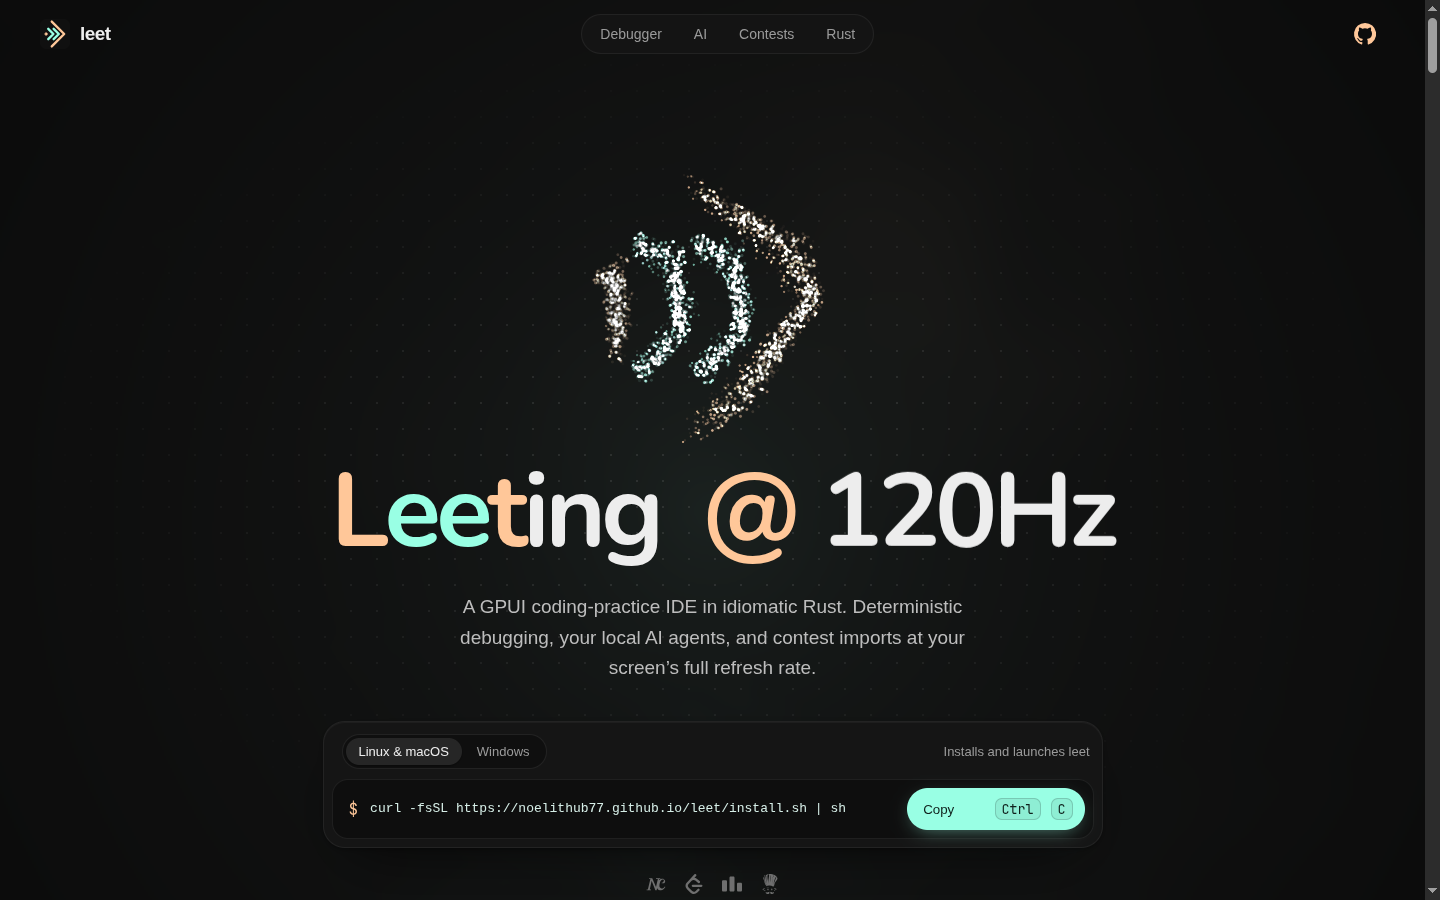
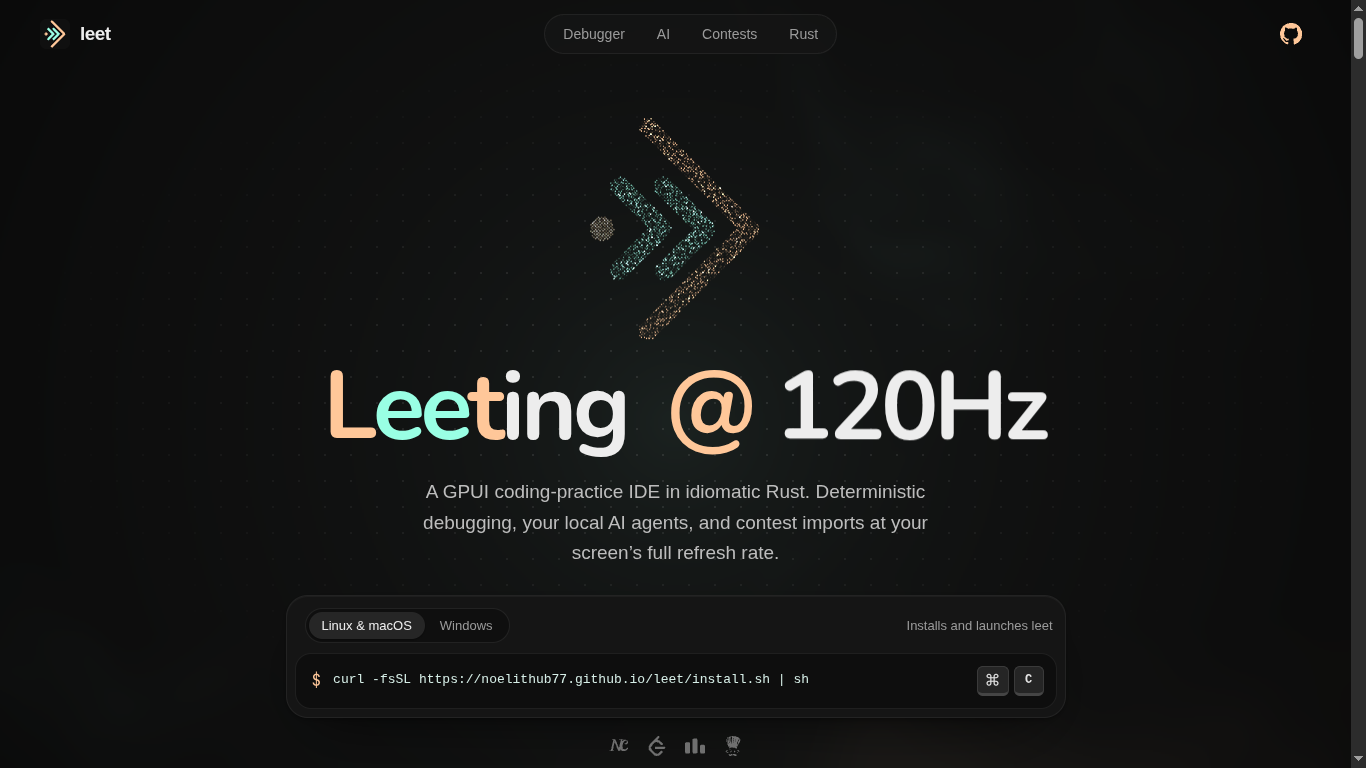
Synchronize hero motion and refine install controls
Pair the logo and Leeting title on one repeating timeline, with matching 1337 states and more space above the headline. Replace the copy pill with raised platform-specific keycaps and quiet the Windows download.

Verify repeated animation cycles, keyboard clipboard feedback, desktop and phone renders, site build, and serial workspace checks.

diff --git a/site/src/enhance.js b/site/src/enhance.js
@@ -9,6 +9,7 @@ import 'lenis/dist/lenis.css';
 import { mountDebugger } from './debugger.js';
 import { colors, pointsAttribute, strokeAt } from './logo.js';
 import { snapRefreshRate } from './refresh.js';
+import { createHeroCycle } from './hero-motion.js';
 
 gsap.registerPlugin(ScrollTrigger, SplitText, DrawSVGPlugin, ScrambleTextPlugin);
 
@@ -66,13 +67,14 @@ const marks = $$('[data-mark]').map(svg => {
   draw();
   const loop = gsap.timeline({ paused: true, repeat: -1, yoyo: true, repeatDelay: 1.5, delay: 1.2 }).to(strokes, { p: 1 - initial, ...morph });
   const mark = { svg, hold: false, visible: false, ghosted: false };
+  mark.setMorph = value => { strokes.forEach(stroke => { stroke.p = value; }); draw(); };
   mark.to = target => { loop.pause(); return gsap.to(strokes, { p: target, ...morph, overwrite: true }); };
   mark.resume = () => { if (!mark.hold && !mark.ghosted && mark.visible && !reduced) mark.to(initial).then(() => !mark.hold && loop.restart(true)); };
   // Particles take over the hero mark; the SVG keeps its layout and accessible name.
   mark.ghost = () => { mark.ghosted = true; loop.pause(); svg.classList.add('is-ghost'); };
   whileVisible(svg, visible => {
     mark.visible = visible;
-    if (visible && !mark.hold && !mark.ghosted && !reduced) loop.play();
+    if (visible && !svg.closest('.hero') && !mark.hold && !mark.ghosted && !reduced) loop.play();
     else loop.pause();
   });
   if (!svg.closest('.hero')) {
@@ -108,21 +110,8 @@ const particlesReady = !reduced && !saveData && marks[0] ? import('./particles.j
   marks[0].ghost();
   root.classList.remove('hero-pending');
   canvas.classList.add('is-live');
-  const { uMorph } = particles.uniforms;
-  const loop = gsap.timeline({ repeat: -1, paused: true })
-    .set(uMorph, { value: 1 })
-    .to(uMorph, { value: 0, duration: 1, ease: 'power2.inOut', delay: 1.5 })
-    .to(uMorph, { value: 1, duration: 1, ease: 'power2.inOut', delay: 1.5 })
-    .to({}, { duration: 1.5 });
-  particles.hold = on => {
-    loop.pause();
-    gsap.to(uMorph, { value: 1, duration: 1.1, ease: 'power2.inOut', overwrite: true, onComplete: () => !on && loop.restart(true) });
-  };
   const render = time => particles.render(time);
-  whileVisible(hero, visible => {
-    if (visible) { gsap.ticker.add(render); if (!root.classList.contains('eleet')) loop.play(); }
-    else { gsap.ticker.remove(render); loop.pause(); }
-  });
+  whileVisible(hero, visible => visible ? gsap.ticker.add(render) : gsap.ticker.remove(render));
   const x = gsap.quickTo(particles.pointer, 'x', { duration: 0.12, ease: 'power2.out' });
   const y = gsap.quickTo(particles.pointer, 'y', { duration: 0.12, ease: 'power2.out' });
   hero.addEventListener('pointermove', event => {
@@ -135,25 +124,32 @@ const particlesReady = !reduced && !saveData && marks[0] ? import('./particles.j
   return particles;
 }).catch(() => { root.classList.remove('hero-pending'); return null; }) : Promise.resolve(null);
 
-/* SplitText gives each stable-width spelling a staggered, rotating letter transition. */
-const heroWord = $('[data-hero-word]');
-if (heroWord && !reduced && !saveData) {
+/* One clock keeps the particle/SVG morph and letter flip paired, including after pauses. */
+const heroMotionReady = particlesReady.then(particles => {
+  const heroWord = $('[data-hero-word]');
+  if (!heroWord || reduced || saveData) return null;
   const leet = heroWord.querySelector('[data-spelling="leet"]');
   const digits = heroWord.querySelector('[data-spelling="1337"]');
   const letters = SplitText.create(leet, { type: 'chars', charsClass: 'spelling-char' });
   const numbers = SplitText.create(digits, { type: 'chars', charsClass: 'spelling-char' });
-  const from = { yPercent: 12, rotationX: -45, opacity: 0, filter: 'blur(2px)' };
-  gsap.set(numbers.chars, from);
-  gsap.set(digits, { opacity: 1, y: 0 });
-  const out = { yPercent: -12, rotationX: 45, opacity: 0, filter: 'blur(2px)', duration: 0.14, stagger: 0.008, ease: 'power2.in' };
-  const into = { yPercent: 0, rotationX: 0, opacity: 1, filter: 'blur(0px)', duration: 0.24, stagger: 0.01, ease: 'power3.out', immediateRender: false };
-  const spelling = gsap.timeline({ repeat: -1, paused: true })
-    .to(letters.chars, { ...out, delay: 2.8 })
-    .fromTo(numbers.chars, from, into, '<+0.06')
-    .to(numbers.chars, { ...out, delay: 2.4 })
-    .fromTo(letters.chars, from, into, '<+0.06');
-  whileVisible(hero, visible => visible ? spelling.play() : spelling.pause());
-}
+  const morph = particles?.uniforms.uMorph ?? { value: 1 };
+  const cycle = createHeroCycle(morph, letters.chars, numbers.chars,
+    particles ? undefined : () => marks[0].setMorph(morph.value));
+  gsap.set([leet, digits], { opacity: 1, y: 0 });
+  let visible = false;
+  const hold = on => {
+    cycle.pause();
+    if (on) cycle.totalTime(0);
+    else { cycle.totalTime(0); if (visible) cycle.play(); }
+  };
+  whileVisible(hero, on => {
+    visible = on;
+    if (on && !root.classList.contains('eleet')) cycle.play();
+    else cycle.pause();
+  });
+  if (root.classList.contains('eleet')) hold(true);
+  return { hold };
+});
 
 /* Scroll scenes, per viewport */
 const debuggerCard = $('[data-debugger]');
@@ -369,8 +365,8 @@ document.addEventListener('keydown', event => {
   if (typedKeys !== '1337') return;
   typedKeys = '';
   const on = root.classList.toggle('eleet');
-  for (const mark of marks) { mark.hold = on; on ? mark.to(1) : mark.resume(); }
-  void particlesReady.then(particles => particles?.hold(on));
+  for (const mark of marks.filter(mark => !mark.svg.closest('.hero'))) { mark.hold = on; on ? mark.to(1) : mark.resume(); }
+  void heroMotionReady.then(motion => motion?.hold(on));
   if (!reduced) {
     const glyphs = Array.from({ length: 28 }, (_, index) => {
       const glyph = Object.assign(document.createElement('span'), { className: 'glyph', textContent: '1337'[index % 4] });

diff --git a/site/index.html b/site/index.html
@@ -42,7 +42,7 @@
       h1{margin:26px 0 0;font-family:"Nunito","Liberation Sans",sans-serif;font-size:clamp(46px,9vw,112px);line-height:1.08;font-weight:700;letter-spacing:-.045em}
       .hz{color:var(--fg);display:inline-block;white-space:nowrap}
       .at-sign{color:var(--peach)}
-      .word-peach{color:var(--peach)}.word-mint{color:var(--mint)}
+      .hero-word [data-spelling=leet]{opacity:0}.word-peach{color:var(--peach)}.word-mint{color:var(--mint)}
       .lede{max-width:580px;margin:24px auto 0;color:#bdbdbd;font-size:clamp(16px,1.9vw,19px);line-height:1.6}
       .install{width:min(100%,780px);margin-top:38px;padding:8px;border:1px solid var(--line);border-radius:var(--radius);background:var(--card);box-shadow:var(--shadow);text-align:left}
       .install-head{display:flex;align-items:center;justify-content:space-between;gap:12px;padding:4px 4px 10px 10px}
@@ -54,13 +54,13 @@
       .command-row code{flex:1;min-width:0;font:13px/1.6 ui-monospace,"SF Mono","JetBrains Mono","Liberation Mono",Consolas,monospace;color:#d6eee7;white-space:nowrap;overflow-x:auto;scrollbar-width:none}
       .prompt{color:var(--peach);font-family:ui-monospace,monospace}
       .copy,.download{display:inline-flex;align-items:center;gap:10px;border:0;border-radius:999px;padding:10px 12px 10px 16px;background:var(--mint);color:var(--ink);font:700 14px/1 inherit;cursor:pointer;white-space:nowrap;box-shadow:0 6px 20px -8px #99ffe499}
-      .download{justify-content:space-between;width:100%;padding:16px 20px;border-radius:16px}
+      .download{justify-content:space-between;width:100%;padding:13px 16px;border-radius:16px;background:#0e0e0e;color:var(--fg);border:1px solid var(--line);box-shadow:none}.download span{color:var(--muted);font-size:13px}.copy{padding:4px;gap:5px;border-radius:10px;background:transparent;color:var(--fg);box-shadow:none}.copy-label{display:none}
       kbd{display:inline-grid;place-items:center;min-width:22px;height:22px;padding:0 6px;border-radius:7px;font:700 11px/1 inherit}
-      .copy kbd{background:#0f211c14;border:1px solid #0f211c2e}
+      .copy kbd{height:30px;min-width:30px;padding:0 9px;border-radius:6px;background:#252525;border:1px solid #3b3b3b;border-bottom:3px solid #454545;color:#e3e3e3;font:600 12px/1 ui-monospace,"SF Mono","Liberation Mono",monospace}.copy kbd[data-mod]{min-width:46px}.copy kbd.is-mac{min-width:30px;font:500 20px/1 "Liberation Sans",sans-serif}
       .marks{display:flex;gap:18px;justify-content:center;margin:26px 0 0;padding:0;list-style:none;color:#6f6f6f}
       .marks i{display:block;width:20px;height:20px;background:currentColor;mask:var(--icon) center/contain no-repeat;-webkit-mask:var(--icon) center/contain no-repeat}
       [hidden]{display:none!important}
-      @media (max-width:640px){.command-row{flex-direction:column;align-items:stretch;padding:12px}.command-row code{white-space:normal;overflow-wrap:anywhere}.copy{justify-content:center;padding:13px}.copy kbd,.install-head span,.command-row .prompt{display:none}}
+      @media (max-width:640px){.command-row{flex-direction:column;align-items:stretch;padding:12px}.command-row code{white-space:normal;overflow-wrap:anywhere}.copy{justify-content:center;align-self:center;padding:4px}.install-head span,.command-row .prompt{display:none}}
     </style>
     <script type="module" src="/src/main.js"></script>
   </head>
@@ -102,7 +102,7 @@
             <div class="command-row" data-panel="unix">
               <span class="prompt" aria-hidden="true">$</span>
               <code data-command>curl -fsSL https://noelithub77.github.io/leet/install.sh | sh</code>
-              <button class="copy" type="button" data-copy aria-keyshortcuts="Control+C Meta+C"><span class="copy-label" data-copy-label aria-live="polite">Copy</span><kbd data-mod>Ctrl</kbd><kbd>C</kbd></button>
+              <button class="copy" type="button" aria-label="Copy install command" data-copy aria-keyshortcuts="Control+C Meta+C"><span class="copy-label" data-copy-label aria-live="polite"></span><kbd data-mod>Ctrl</kbd><kbd>C</kbd></button>
             </div>
             <a class="download" data-panel="windows" hidden href="https://github.com/Noelithub77/leet/releases/latest/download/leet-windows-x86_64.exe">Download for Windows <span aria-hidden="true">.exe ↓</span></a>
           </div>
@@ -329,7 +329,7 @@
             <div class="command-row" data-panel="unix">
               <span class="prompt" aria-hidden="true">$</span>
               <code data-command>curl -fsSL https://noelithub77.github.io/leet/install.sh | sh</code>
-              <button class="copy" type="button" data-copy aria-keyshortcuts="Control+C Meta+C"><span class="copy-label" data-copy-label aria-live="polite">Copy</span><kbd data-mod>Ctrl</kbd><kbd>C</kbd></button>
+              <button class="copy" type="button" aria-label="Copy install command" data-copy aria-keyshortcuts="Control+C Meta+C"><span class="copy-label" data-copy-label aria-live="polite"></span><kbd data-mod>Ctrl</kbd><kbd>C</kbd></button>
             </div>
             <a class="download" data-panel="windows" hidden href="https://github.com/Noelithub77/leet/releases/latest/download/leet-windows-x86_64.exe">Download for Windows <span aria-hidden="true">.exe ↓</span></a>
           </div>

diff --git a/site/src/style.css b/site/src/style.css
@@ -27,11 +27,11 @@ h2, h3, .dbg-title, .cph-title { font-family: "Nunito", "Liberation Sans", sans-
 .bar-progress { position: absolute; left: 0; right: 0; bottom: -1px; height: 2px; background: linear-gradient(90deg, var(--peach), var(--mint)); transform: scaleX(0); transform-origin: 0 50%; opacity: .85; }
 
 /* Hero */
-.hero h1 { white-space: nowrap; font-size: clamp(46px, 8.2vw, 104px); }
+.hero h1 { margin-top: 46px; white-space: nowrap; font-size: clamp(46px, 8.2vw, 104px); }
 .hero-word { display: inline-grid; min-width: 3.35em; text-align: center; overflow: clip; padding-block: .08em; margin-block: -.08em; vertical-align: bottom; }
 .hero-word > span { grid-area: 1 / 1; perspective: 600px; }
 .spelling-char { transform-origin: 50% 50%; backface-visibility: hidden; }
-.hero-word [data-spelling="1337"] { opacity: 0; transform: translateY(85%); }
+.hero-word [data-spelling="leet"] { opacity: 0; }
 .hero .mark { position: relative; top: 30px; }
 .mark { transition: opacity .3s ease; }
 .mark.is-ghost { opacity: 0; }
@@ -50,7 +50,7 @@ h2, h3, .dbg-title, .cph-title { font-family: "Nunito", "Liberation Sans", sans-
 @media (min-width: 900px) and (max-height: 850px) {
   .hero { padding-top: 76px; padding-bottom: 90px; }
   .hero .mark { width: clamp(220px, 32vh, 290px); }
-  .hero h1 { font-size: clamp(64px, 7.5vw, 96px); margin-top: 14px; }
+  .hero h1 { font-size: clamp(64px, 7.5vw, 96px); margin-top: 34px; }
   .hero .lede { margin-top: 18px; }
   .hero .install { margin-top: 26px; }
   .hero .marks { margin-top: 18px; }
@@ -62,11 +62,14 @@ h2, h3, .dbg-title, .cph-title { font-family: "Nunito", "Liberation Sans", sans-
 .command-row { position: relative; transition: border-color .3s, box-shadow .4s var(--ease); }
 .command-row.is-copied { border-color: #99ffe455; box-shadow: 0 0 0 4px #99ffe412; }
 .copy, .download { position: relative; transition: transform .2s var(--ease), background .2s, box-shadow .3s; }
-.copy:hover, .download:hover { background: #b6fff0; box-shadow: 0 8px 26px -8px #99ffe4bb; }
+.copy:hover kbd { background: #303530; border-color: #58655e; color: var(--mint); }
+.download:hover { background: #99ffe409; border-color: #99ffe455; color: var(--mint); }
 .copy:active { transform: scale(.96); }
 .copy kbd { transition: transform .12s var(--ease), background .12s; }
-.copy kbd.is-pressed { transform: translateY(2px); background: #0f211c33; }
-.copy-label { display: inline-flex; align-items: center; gap: 6px; min-width: 4.6em; }
+.copy kbd.is-pressed, .copy:active kbd { transform: translateY(2px); border-bottom-width: 1px; background: #303530; }
+.copy-label { display: none; }
+.is-copied .copy-label { display: inline-flex; align-items: center; gap: 6px; min-height: 30px; padding-inline: 8px; color: var(--mint); }
+.is-copied .copy kbd { display: none; }
 .copy-label svg { width: 15px; height: 15px; fill: none; stroke: currentColor; stroke-width: 2.4; stroke-linecap: round; stroke-linejoin: round; stroke-dasharray: 20; animation: tick .45s var(--ease) both; }
 @keyframes tick { from { stroke-dashoffset: 20; } to { stroke-dashoffset: 0; } }
 .spark { position: absolute; left: 50%; top: 50%; width: 6px; height: 6px; border-radius: 2px; pointer-events: none; }
@@ -291,7 +294,7 @@ h2, h3, .dbg-title, .cph-title { font-family: "Nunito", "Liberation Sans", sans-
   .command-row .copy { justify-content: center; }
   .hero { padding: 90px 20px 100px; }
   .hero .mark { width: clamp(140px, 36vw, 180px); top: 12px; }
-  .hero h1 { font-size: clamp(34px, 9.4vw, 56px); margin-top: 20px; }
+  .hero h1 { font-size: clamp(34px, 9.4vw, 56px); margin-top: 32px; }
   .hero .lede { margin-top: 18px; }
   .hero .install { margin-top: 26px; }
   .stats { grid-template-columns: repeat(2, 1fr); gap: 10px; }

diff --git a/site/src/hero-motion.test.js b/site/src/hero-motion.test.js
@@ -1,0 +1,31 @@
+import test from 'node:test';
+import assert from 'node:assert/strict';
+import { createHeroCycle } from './hero-motion.js';
+
+test('hero shape and spelling stay paired through repeated cycles and pauses', () => {
+  const glyphs = () => Array.from({ length: 7 }, () => ({ yPercent: 0, rotationX: 0, opacity: 1, filter: 'blur(0px)' }));
+  const letters = glyphs();
+  const numbers = glyphs();
+  const morph = { value: 1 };
+  const cycle = createHeroCycle(morph, letters, numbers);
+  const assertPair = digits => {
+    assert.equal(morph.value, digits ? 1 : 0);
+    assert.ok(numbers.every(char => char.opacity === (digits ? 1 : 0)));
+    assert.ok(letters.every(char => char.opacity === (digits ? 0 : 1)));
+  };
+  try {
+    assertPair(true);
+    for (const round of [0, 1, 10, 100]) {
+      cycle.totalTime(round * cycle.duration() + 3);
+      assertPair(false);
+      cycle.pause();
+      assert.equal(cycle.paused(), true);
+      cycle.totalTime(round * cycle.duration() + 5.5);
+      assertPair(true);
+    }
+    cycle.totalTime(0);
+    assertPair(true);
+  } finally {
+    cycle.kill();
+  }
+});

diff --git a/site/src/hero-motion.js b/site/src/hero-motion.js
@@ -1,0 +1,19 @@
+import { gsap } from 'gsap';
+
+export function createHeroCycle(morph, letters, numbers, onMorph) {
+  const hidden = { yPercent: 12, rotationX: -45, opacity: 0, filter: 'blur(2px)' };
+  const shown = { yPercent: 0, rotationX: 0, opacity: 1, filter: 'blur(0px)' };
+  gsap.set(letters, hidden);
+  gsap.set(numbers, shown);
+  gsap.set(morph, { value: 1, onUpdate: onMorph });
+  const out = { yPercent: -12, rotationX: 45, opacity: 0, filter: 'blur(2px)', duration: 0.14, stagger: 0.008, ease: 'power2.in' };
+  const into = { ...shown, duration: 0.24, stagger: 0.01, ease: 'power3.out', immediateRender: false };
+  return gsap.timeline({ paused: true, repeat: -1 })
+    .to(morph, { value: 0, duration: 1, ease: 'power2.inOut', onUpdate: onMorph }, 1.5)
+    .to(numbers, out, 1.85)
+    .fromTo(letters, hidden, into, 1.91)
+    .to(morph, { value: 1, duration: 1, ease: 'power2.inOut', onUpdate: onMorph }, 4)
+    .to(letters, out, 4.35)
+    .fromTo(numbers, hidden, into, 4.41)
+    .to({}, { duration: 1.5 }, 5);
+}

diff --git a/site/src/main.js b/site/src/main.js
@@ -6,7 +6,11 @@ const detected = detectPlatform(navigator.userAgentData?.platform ?? navigator.p
 const modifier = detected === 'macos' ? '⌘' : 'Ctrl';
 let platform = detected === 'windows' ? 'windows' : 'unix';
 
-for (const key of document.querySelectorAll('[data-mod]')) key.textContent = modifier;
+for (const key of document.querySelectorAll('[data-mod]')) {
+  key.textContent = modifier;
+  key.classList.toggle('is-mac', detected === 'macos');
+  if (detected === 'macos') key.setAttribute('aria-label', 'Command');
+}
 // Phones and tablets have no Ctrl+C to advertise.
 if (!detected) document.querySelector('[data-press-hint]')?.setAttribute('hidden', '');
 
@@ -36,7 +40,7 @@ function celebrate(button) {
   row.classList.add('is-copied');
   clearTimeout(timers.get(button));
   timers.set(button, setTimeout(() => {
-    label.textContent = 'Copy';
+    label.textContent = '';
     row.classList.remove('is-copied');
   }, 1800));
   if (matchMedia('(prefers-reduced-motion: reduce)').matches) return;

diff --git a/plan/landing-page/README.md b/plan/landing-page/README.md
@@ -2,7 +2,7 @@
 
 [CHOSEN] Static HTML with inline hero CSS and a small copy/platform entry module. GSAP, ScrollTrigger, SplitText, DrawSVG, ScrambleText, and Lenis load after the first frame; OGL shaders and particles load separately. React and Sonner load lazily for feedback. Nunito titles and Liberation Sans body text are self-hosted subsets.
 
-- Hero: larger 1337 → logo particle morph with continuous visible playback and a soft startup fade, quick letter flips between Leeting and 1337ing, a peach @ beside neutral 120Hz, fast pointer response, and no scanning sweep or promo pill. The phone install card centers its tabs, command, and copy action. Copy row and logo-chevron scroll cue remain primary.
+- Hero: larger 1337 → logo particle morph with continuous visible playback and a soft startup fade, a shared clock pairing the logo with Leeting and the digits with 1337ing, more space above the title, a peach @ beside neutral 120Hz, fast pointer response, and no scanning sweep or promo pill. The phone install card centers its tabs, command, and copy action. Dark raised Ctrl/C keycaps (⌘/C on macOS), a quiet outlined Windows download, and the logo-chevron scroll cue remain primary.
 - Story: browser frame-cadence meter and flow video; deterministic interactive debugger replay (Container With Most Water) and real recording; AI agents and Assist actions; Competitive Companion and providers; idiomatic Rust and GPUI; gallery; final copy with keyboard shortcut.
 - Media: real app footage captured in omabox by the delegated `pnpm ops media:*` commands (codex-3). Videos lazy-attach near the viewport, play only while visible, 120 fps variant on high-refresh screens, posters for reduced motion/Save-Data.
 - Tailwind and the shadcn Kbd component are removed; plain CSS.

diff --git a/docs/changelog.md b/docs/changelog.md
@@ -2,6 +2,7 @@
 <summary>Feat</summary>
 
 - New landing page with real app footage, an interactive debugger replay, and keyboard copy with feedback.
+- Synchronize the hero logo and title, add breathing room, and refine installation keycaps and Windows download.
 
 - Keep Description, Examples, and Constraints visible as pastel-bordered cards with one section open at a time.
 
